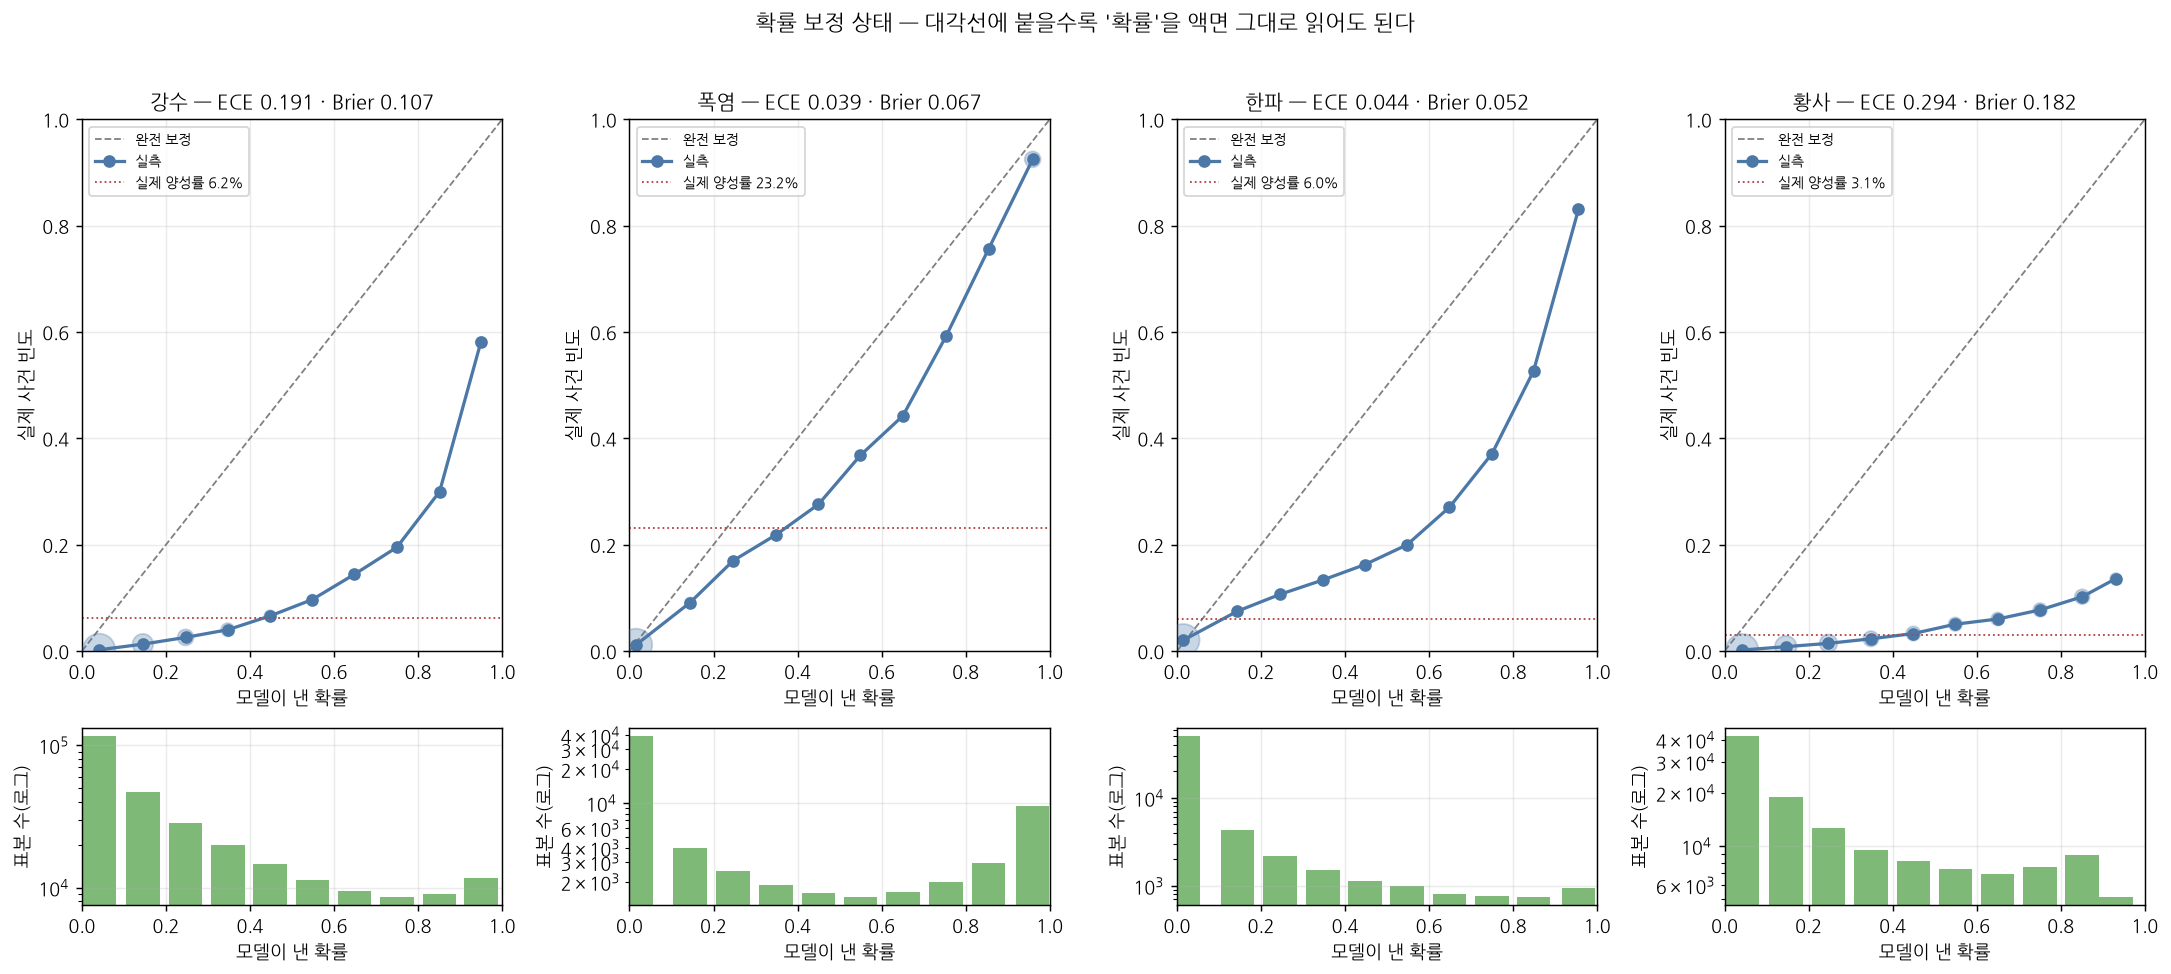
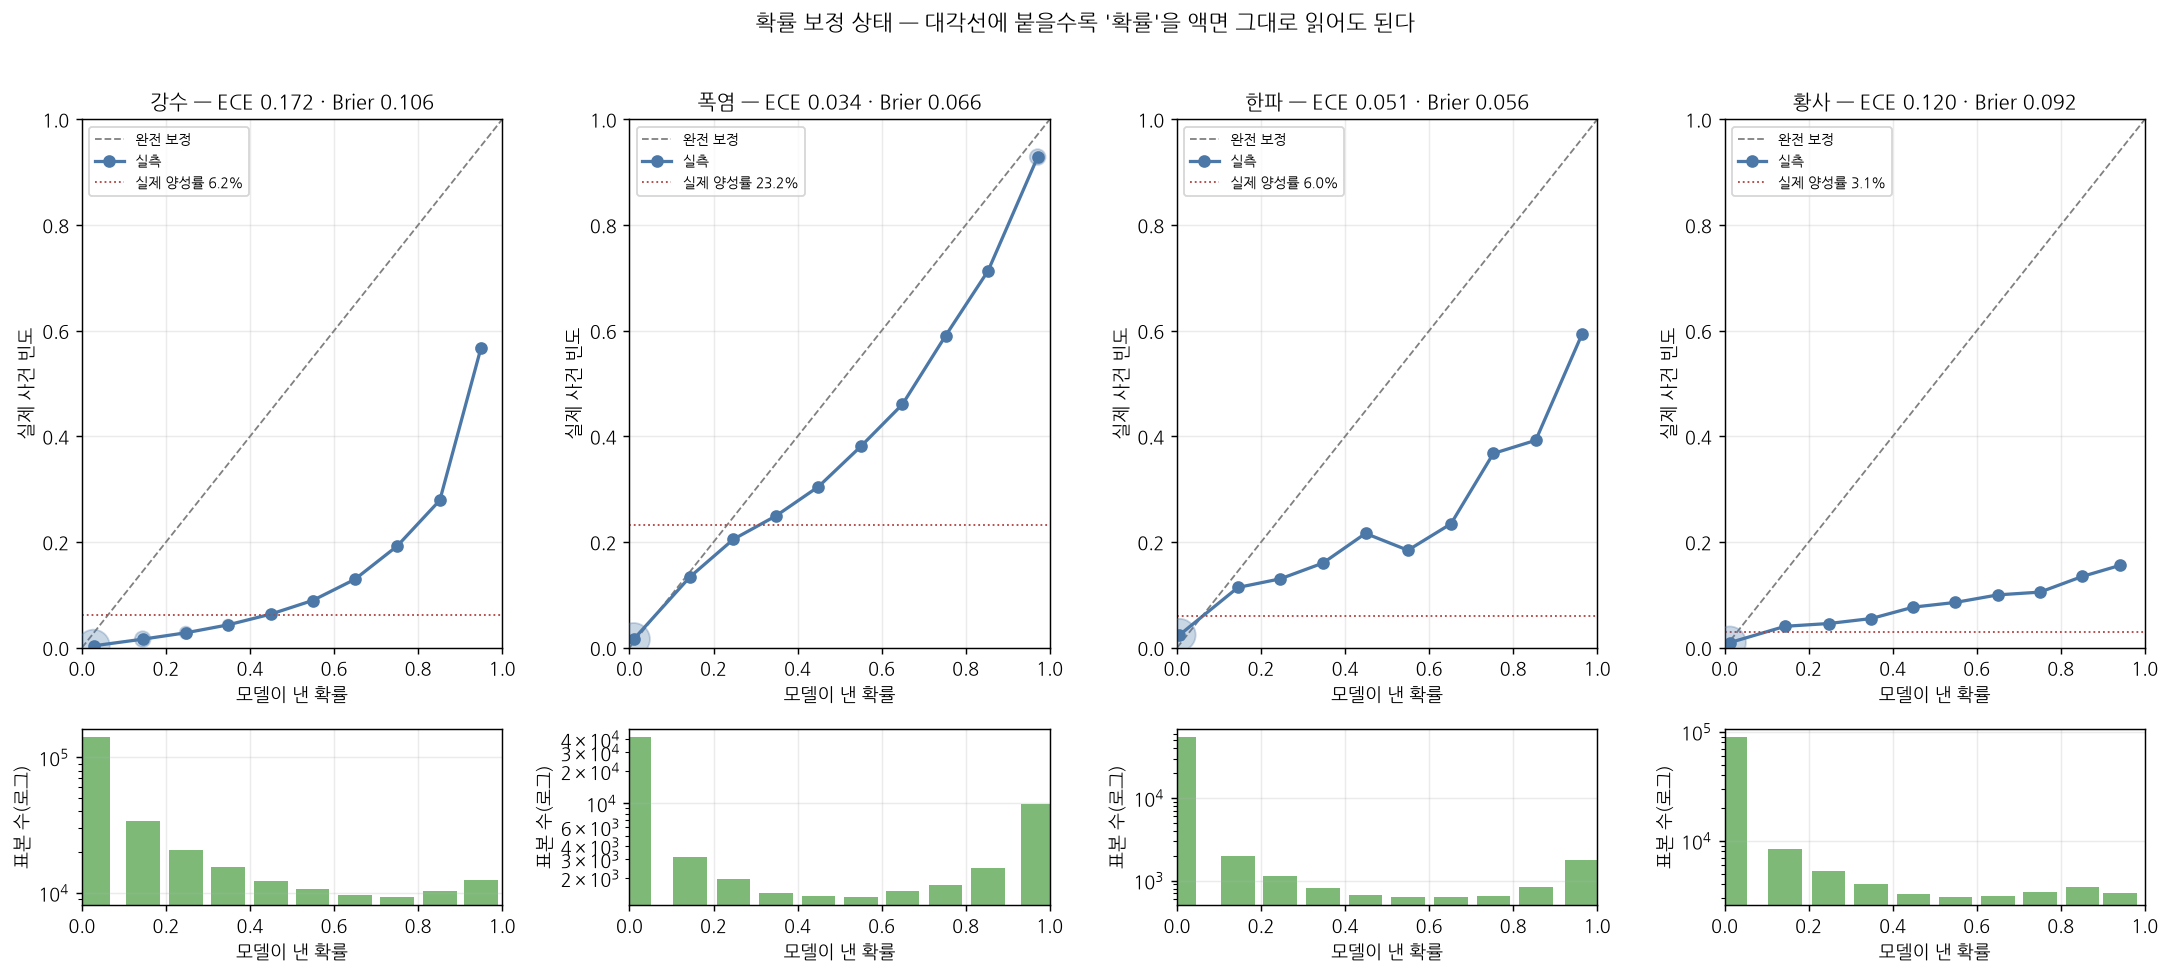
신뢰도 곡선 그림을 현행 모델로 재생성, 표의 측정 근거를 명시
README의 확률 보정 표는 새 모델 수치로 갱신했으나 그림(probability_
calibration.png)이 v9 시점 그대로여서 서로 어긋나 있었다. 재생성했다.

표의 '보정 전' 열과 '보정 후' 열은 측정 표본이 다르다 — 전자는 검증셋
전체, 후자는 보정용/평가용을 분리한 평가용 절반이다. 소수점 셋째 자리에서
값이 갈리는 이유이므로 각주로 밝혔다.

Claude-Session: https://claude.ai/code/session_01Ns2exaniH8NC9pf8atNHJN

diff --git a/README.md b/README.md
@@ -233,10 +233,12 @@ KMA_STN = "108"
 
 | 사건 | 보정 전 ECE | 보정 후 ECE | 보정 전 MCE | F1 변화 |
 |---|---|---|---|---|
-| 폭염 | 0.0338 | **0.0048** | 0.198 | 0.8144 → 0.8144 |
-| 한파 | 0.0517 | **0.0031** | 0.436 | 0.4492 → 0.4471 |
-| *강수* | *0.1725* | *0.0017* | *0.531* | *0.4965 → 0.4941* |
-| *황사* | *0.1199* | *0.0006* | *0.785* | *0.1831 → 0.1866* |
+| 폭염 | 0.0340 | **0.0048** | 0.189 | 0.8144 → 0.8144 |
+| 한파 | 0.0513 | **0.0031** | 0.461 | 0.4492 → 0.4471 |
+| *강수* | *0.1719* | *0.0017* | *0.573* | *0.4965 → 0.4941* |
+| *황사* | *0.1196* | *0.0006* | *0.785* | *0.1866* |
+
+보정 전 열은 검증셋 전체(`probability_calibration_check.py`, 위 그림과 동일 근거)에서, 보정 후 열과 F1은 보정용/평가용을 분리한 평가용 절반(`probability_calibration_fit.py`)에서 측정했다 — 표본이 달라 소수점 셋째 자리에서 차이가 날 수 있다.
 
 화면에 확률로 표시되는 것은 폭염·한파 두 가지다. 강수는 확률이 아니라 mm로 표시되고, 황사는 앞서 밝힌 사유로 화면에서 제외했다 — 아래 두 행은 측정 기록으로만 남긴다.
 
